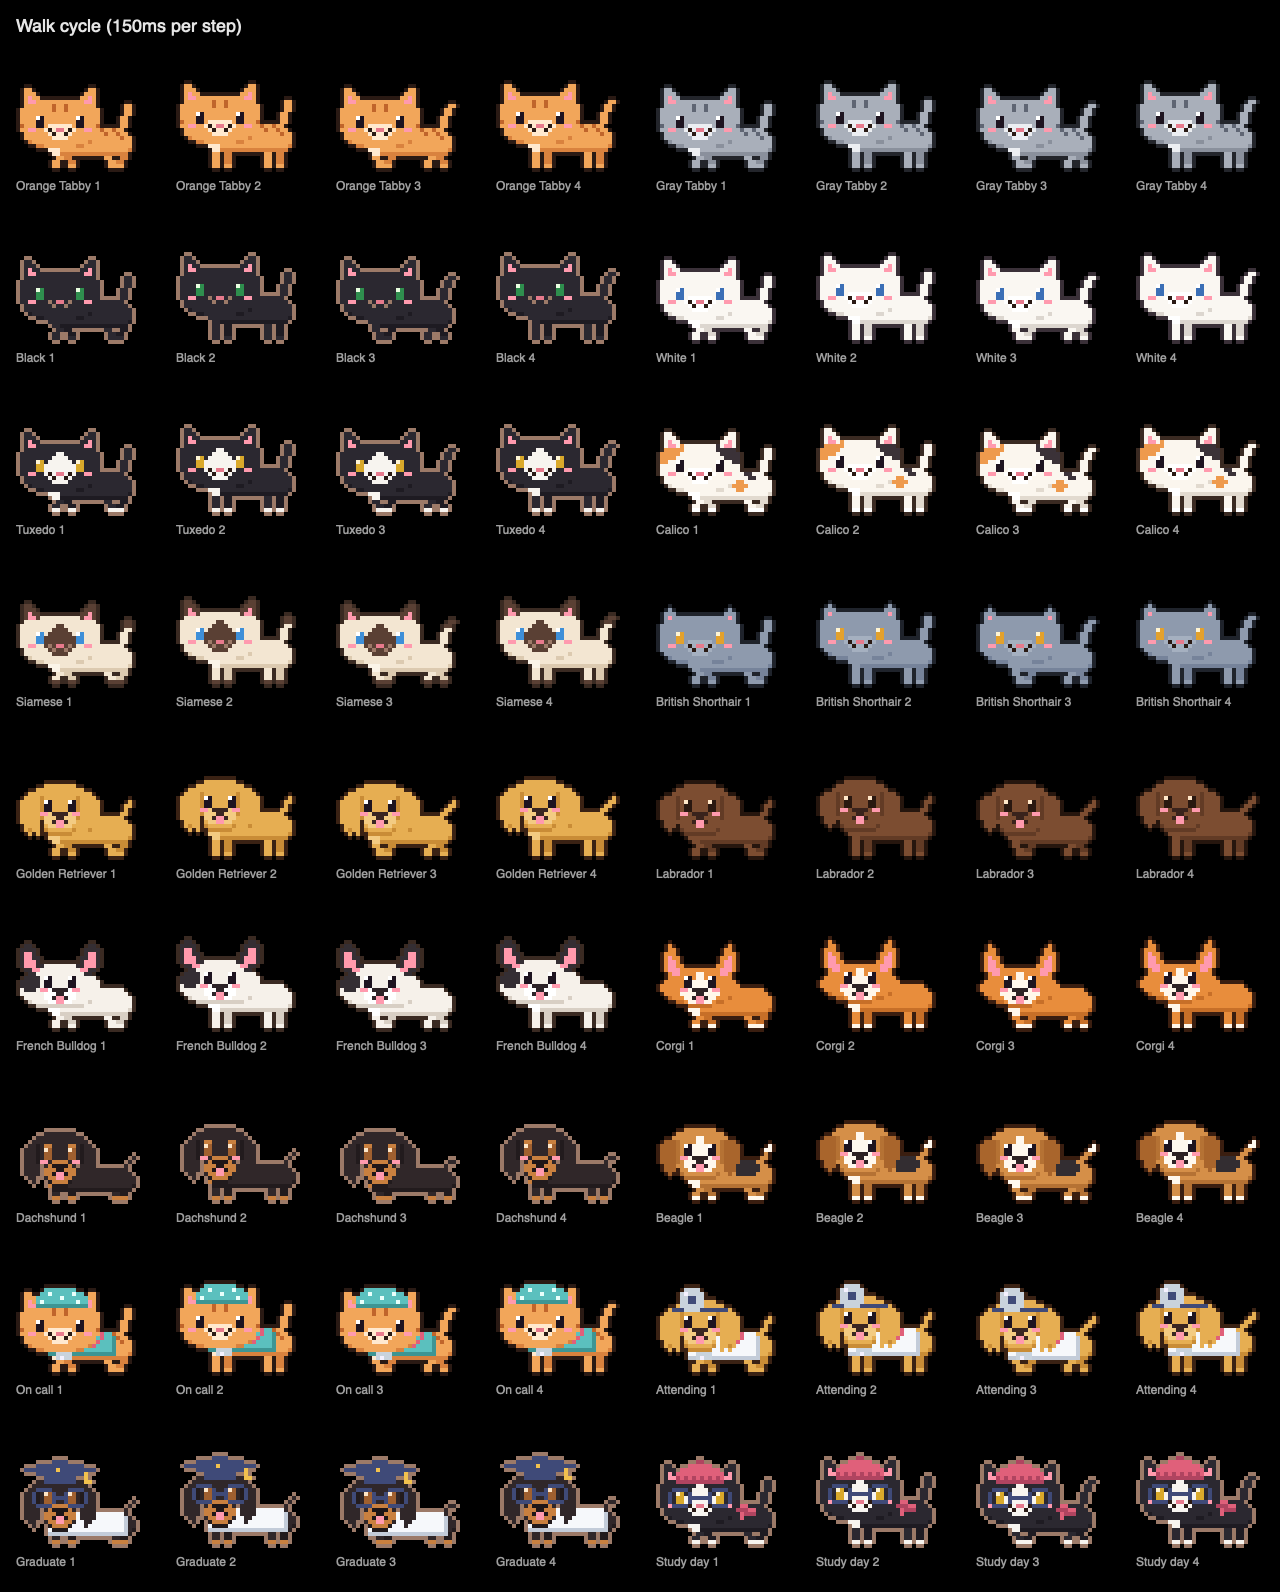
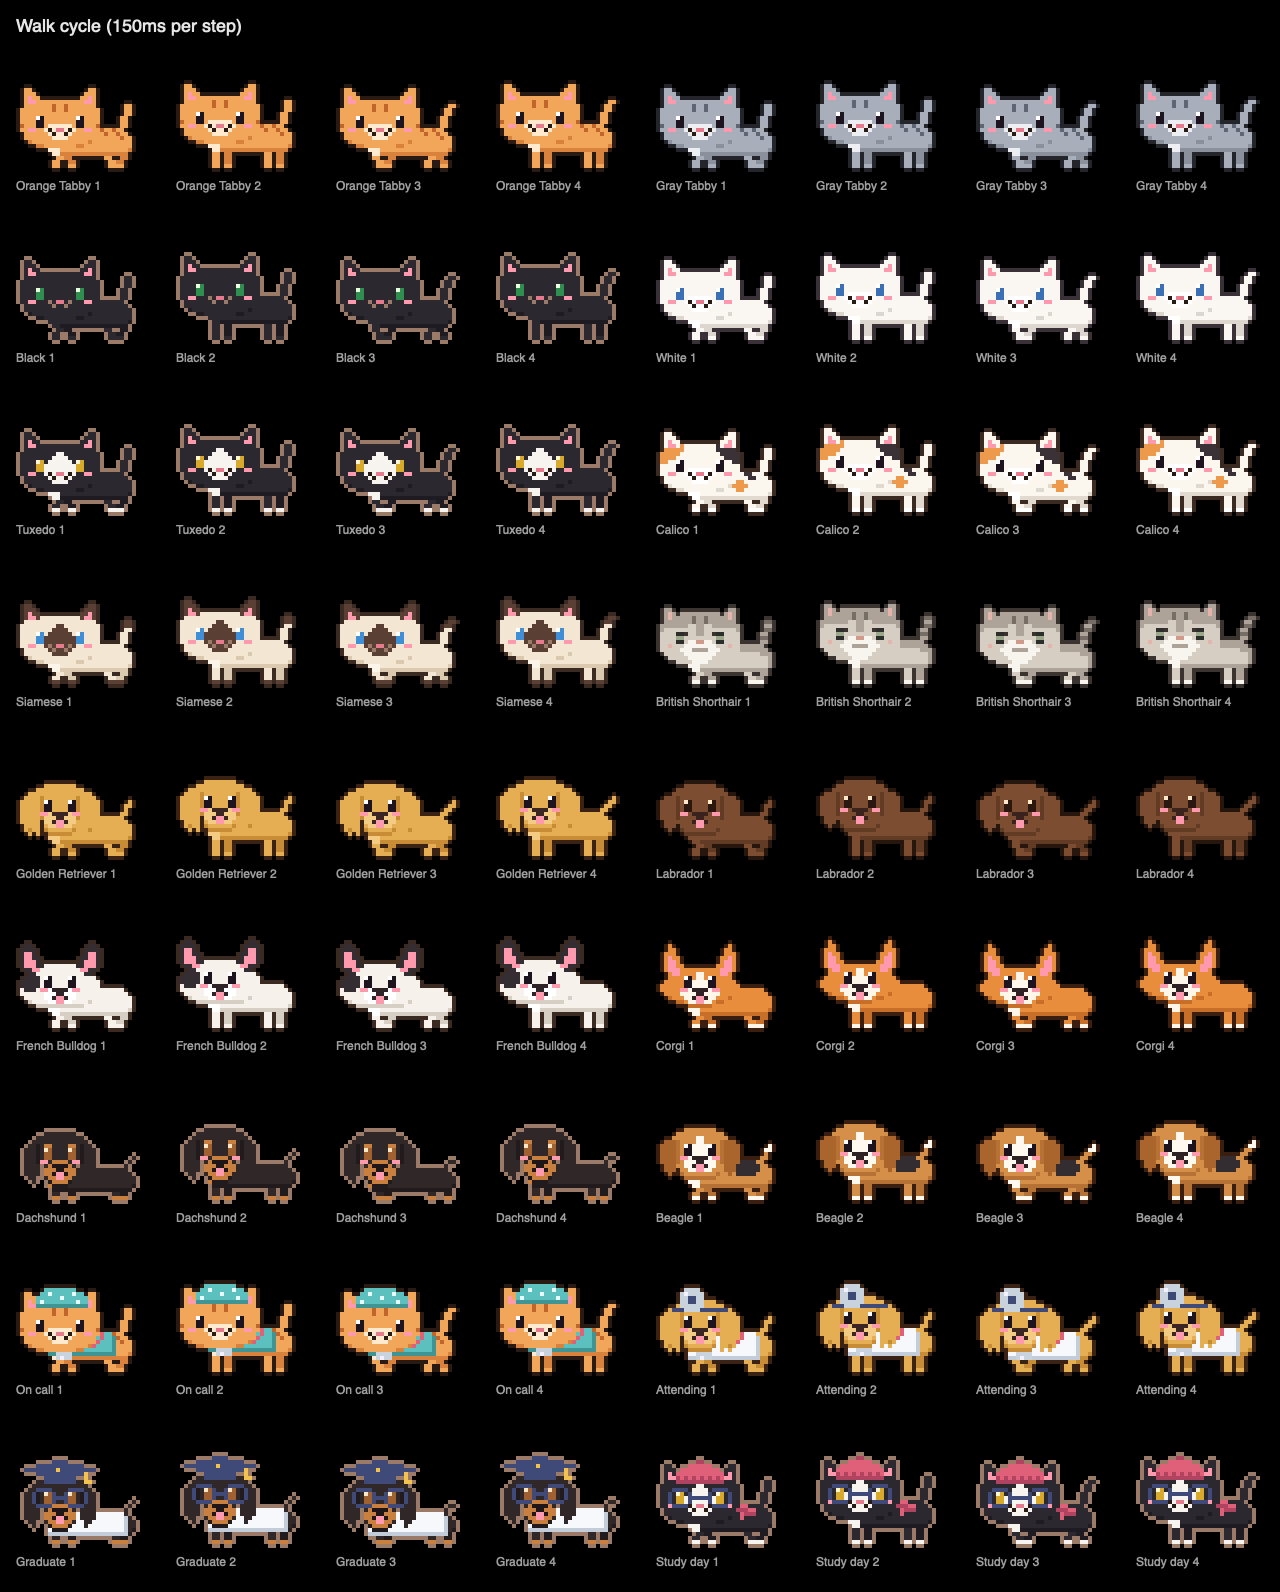
feat(pets): I gave the British Shorthair a stocky body of its own, with a taupe ticked back and a dark-ringed tail, both sitting and walking. I also saved the final photo comparison and contact sheets to docs/study/images and added a test that the tail is ringed.

Changed region(s): [[0.5, 0.3693, 1.0, 0.4309]]

diff --git a/Sources/TabbiKitCore/Pets/PetComposer.swift b/Sources/TabbiKitCore/Pets/PetComposer.swift
@@ -72,7 +72,7 @@ public enum PetComposer {
             canvas.stamp(leg, x: layout.headX + layout.head.width - 4 - leg.width, y: 0, pattern: pattern)
             bodyItem = { _ in nil }
         case .walking(let index):
-            let walk = WalkLayout(layout.family)
+            let walk = WalkLayout(breed.bodyShape, layout.family)
             let step = WalkArt.cycle[index % WalkArt.cycle.count]
             // Contact steps sink a pixel onto bent legs; the head rides along.
             let sink = step.isContact ? 1 : 0
@@ -90,7 +90,7 @@ public enum PetComposer {
             headX = walk.headX
             headY = walk.chinRow + 1 - layout.head.height + sink + pose.headDrop
         case .stretching(let bow, let wag):
-            let walk = WalkLayout(layout.family)
+            let walk = WalkLayout(breed.bodyShape, layout.family)
             // Short legs bow less, so the chin never sinks onto the paws.
             let depth = min(bow, walk.legHeight - 1)
             let legY = walk.torsoY + walk.torso.height
@@ -218,8 +218,10 @@ public enum PetComposer {
             switch shape {
             case .cat, .roundCat:
                 family = .cat
-                (body, bodyX, bodyY, tail) = (CatArt.bodySit, 6, 20, nil)
-                (head, face) = shape == .roundCat ? (CatArt.headRound, CatArt.faceRound) : (CatArt.head, CatArt.faceOpen)
+                (bodyX, bodyY, tail) = (6, 20, nil)
+                (body, head, face) = shape == .roundCat
+                    ? (CatArt.bodyRound, CatArt.headRound, CatArt.faceRound)
+                    : (CatArt.bodySit, CatArt.head, CatArt.faceOpen)
                 (headX, headY, faceRow, eyeRow, skullTop) = (6, 7, 0, 7, 3)
             case .longDog:
                 family = .longDog
@@ -269,11 +271,14 @@ public enum PetComposer {
         /// Frame row of the head's last pixel on a passing step.
         let chinRow: Int
 
-        init(_ family: Family) {
+        init(_ shape: PetBodyShape, _ family: Family) {
             self.family = family
             switch family {
             case .cat:
-                (torso, torsoY, tails, tailX) = (WalkArt.catTorso, 20, WalkArt.catTail, 26)
+                (torso, tails) = shape == .roundCat
+                    ? (WalkArt.roundCatTorso, WalkArt.roundCatTail)
+                    : (WalkArt.catTorso, WalkArt.catTail)
+                (torsoY, tailX) = (20, 26)
                 (legHeight, backHip, chinRow) = (4, 22, 24)
             case .dog:
                 (torso, torsoY, tails, tailX) = (WalkArt.dogTorso, 20, WalkArt.dogTail, 26)

diff --git a/Tests/TabbiKitCoreTests/PetsProfileTests.swift b/Tests/TabbiKitCoreTests/PetsProfileTests.swift
@@ -53,6 +53,30 @@ final class PetProfileTests: XCTestCase {
         }
     }
 
+    func testTheBritishShorthairTailIsRingedSittingAndWalking() {
+        // Its dark-ringed tail is what tells it apart from a gray tabby at
+        // notch size: some column must cross at least three dark bands
+        // (two while walking, where the swaying tail runs diagonally).
+        func ringCount(_ canvas: PetCanvas) -> Int {
+            (0..<canvas.width).map { x in
+                var runs = 0
+                var inRing = false
+                for y in 0..<canvas.height {
+                    let isRing = canvas[x, y] == .furAccent
+                    if isRing && !inRing { runs += 1 }
+                    inRing = isRing
+                }
+                return runs
+            }.max() ?? 0
+        }
+        let clips = PetClipSet(profile: PetProfile(name: "", breed: .britishShorthair))
+        XCTAssertGreaterThanOrEqual(ringCount(PetComposer.sitting(.britishShorthair)), 3)
+        for frame in clips[.walk].frames {
+            XCTAssertGreaterThanOrEqual(ringCount(frame.canvas), 2)
+        }
+        XCTAssertLessThan(ringCount(PetComposer.sitting(.grayTabby)), 3, "plain cats keep their plain tail")
+    }
+
     func testStarterMatchesTheChosenSpecies() {
         for species in PetSpecies.allCases {
             let starter = PetProfile.starter(species)

diff --git a/Sources/TabbiKitCore/Pets/Art/WalkArt.swift b/Sources/TabbiKitCore/Pets/Art/WalkArt.swift
@@ -60,6 +60,38 @@ enum WalkArt {
             """),
     ]
 
+    /// British Shorthair torso: the cat torso with a taupe, ticked back over
+    /// pale sides.
+    static let roundCatTorso = SpriteGrid(art: """
+        ...SSSSSsSSSSSSsSSSS..
+        ..SSSSsSSSSSsSSSSSsSS.
+        .BBBBBBBBBBBBBBBBBBSSS
+        .BBBBBBBBBBBBBBBBBBBBS
+        .cBBBBBBBBBBBBBBBBBBBS
+        .cccBBBBBBBBBBBBBBBBBS
+        ..ccSSSSSSSSSSSSSSSSS.
+        """)
+
+    /// The British Shorthair's thick tail, ringed with dark bands.
+    static let roundCatTail = [
+        SpriteGrid(art: """
+            .tt
+            .SS
+            .tt
+            SS.
+            tt.
+            SS.
+            """),
+        SpriteGrid(art: """
+            ..tt
+            .SS.
+            .tt.
+            SS..
+            tt..
+            SS..
+            """),
+    ]
+
     static let dogTail = [
         SpriteGrid(art: """
             ..t

diff --git a/Sources/TabbiKitCore/Pets/Art/CatArt.swift b/Sources/TabbiKitCore/Pets/Art/CatArt.swift
@@ -93,4 +93,21 @@ enum CatArt {
         ...SBppSBBBBSppBSS..
         ....pppp....pppp....
         """)
+
+    /// British Shorthair sitting body, the same 20x11 frame as `bodySit` so
+    /// every costume fits: taupe flanks with faint ticking, full haunches,
+    /// a white chest and paws, and a thick tail ringed with dark bands.
+    static let bodyRound = SpriteGrid(art: """
+        .....SBBBBBBBBS.....
+        ....SBBccccccBBS....
+        ....SBccccccccBS..tt
+        ...SSBccccccccBSS.SS
+        ...SsBBccccccBBsS.tt
+        ...SSBBBccccBBBSS.SS
+        ...SsBBBBBBBBBBsS.tt
+        ..SSSBBBBBBBBBBSSSSS
+        ..SsSBBBBBBBBBBSsSS.
+        ..SSBpppBBBBpppBSS..
+        ...Spppp....ppppS...
+        """)
 }

diff --git a/docs/study/pets.md b/docs/study/pets.md
@@ -181,6 +181,7 @@ Pets walk toward the left; mirror the frames to walk right.
 
 - Torsos: `catTorso` and `dogTorso` share one size (22x7, so torso costumes fit both), and `longTorso` (23x6) sits lower on shorter legs for the dachshund.
   The cat torso carries stripe and calico patch zones; the dog torso carries the beagle saddle.
+  The British Shorthair walks on `roundCatTorso`, the same size with a taupe back, and swings the ringed `roundCatTail`.
 - Tails: two sway positions per family; the tail swings once per half cycle so it never flickers.
   Stubby-tailed breeds (`hasTail == false`) skip it.
 - Legs: `WalkArt.leg(height:lean:far:)` generates every leg, with the paw zone on the bottom row.
@@ -264,6 +265,20 @@ Its initializer and editing methods keep it valid at all times:
 
 New users start with `PetProfile.starter(.cat)`: a British Shorthair drawn from the maintainer's own shaded-silver cat, with no name yet.
 It goes by "British Shorthair" until the user names it, and the Closet asks them to.
+
+![The reference photo beside the sitting and walking sprite at 4x, and every cat breed plus the British Shorthair's resting frames at notch size](images/british-shorthair-comparison.png)
+
+What makes this cat recognizable, and where each part lives:
+
+- Coloring (`PetBreed.palette`): pale silver-beige fur, a taupe shade for the crown, back and flanks, a dark taupe accent for ticking and tail rings, a white muzzle, chin, chest and paws, a pink-tan nose, and gray-green eyes.
+- Head (`CatArt.headRound`): small rounded ears set wide apart, a taupe crown with faint ticking that runs down the forehead, and full cheeks around the white muzzle.
+- Face (`CatArt.faceRound`): heavy dark lids over 2x3 eyes, extended toward the nose, for the half-lidded "unimpressed" look, and a flat mouth.
+- Body (`CatArt.bodyRound`, `WalkArt.roundCatTorso`, `WalkArt.roundCatTail`): taupe flanks and back with ticking, full haunches, and a thick tail ringed with dark bands.
+  These grids have the same size as the plain cat's, so every costume fits without new art.
+
+![Every animation frame for the British Shorthair](images/animations-britishShorthair.png)
+
+![Every costume on the British Shorthair](images/costumes-britishShorthair.png)
 `PetProfile.defaultName(for:)` gives cats no name and dogs "Biscuit", and `hasDefaultName` tells these (and "Mochi", the starter name in earlier versions) apart from a name the user chose, so switching species only renames a pet that still has a default name.
 A kit can still pick another starter (`moduleSettings.closet.pet`), and a pet that is already saved never changes.
 
@@ -312,7 +327,7 @@ Dogs need more, because their ears and snouts are what make them recognizable at
 | Shape | Breeds | What sets it apart |
 | --- | --- | --- |
 | `cat` | most cats | pointed ears, tabby stripe zones |
-| `roundCat` | British Shorthair | small wide-set ears, round cheeks |
+| `roundCat` | British Shorthair | small wide-set ears, round cheeks, half-lidded eyes, stocky body, ringed tail |
 | `floppyDog` | Labrador, Beagle | hanging ears beside a rounded skull |
 | `fluffyDog` | Golden Retriever | long feathered ears |
 | `batEaredDog` | French Bulldog | big rounded bat ears, broad face |
